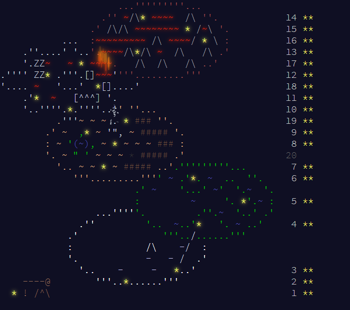
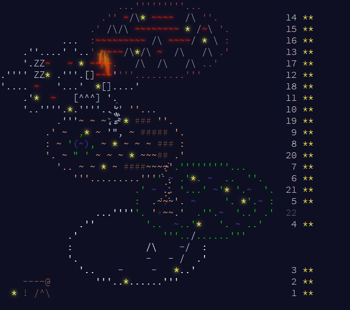
Day 21

diff --git a/2023/main_page/aoc/index_21.html b/2023/main_page/aoc/index_21.html
@@ -1,0 +1,161 @@
+<!DOCTYPE html>
+<html lang="en-us">
+<head>
+<meta charset="utf-8"/>
+<title>Advent of Code 2023</title>
+<!--[if lt IE 9]><script src="html5.js"></script><![endif]-->
+<link href='SourceCodePro.css' rel='stylesheet' type='text/css'>
+<link rel="stylesheet" type="text/css" href="style.css"/>
+<link rel="stylesheet alternate" type="text/css" href="highcontrast.css?0" title="High Contrast"/>
+<link rel="shortcut icon" href="favicon.png"/>
+</head><body>
+<main>
+<style>
+.calendar .calendar-color-m { color:#d4dde4; }
+.calendar .calendar-color-n { color:#9b715b; }
+.calendar .calendar-color-v { color:#df2308; text-shadow:0 0 5px #df2308, 0 0 10px #df2308; }
+.calendar .calendar-color-l { color:#ccccff; }
+.calendar .calendar-color-s { color:#e3b585; }
+.calendar .calendar-color-y { color:#ffff66; text-shadow:0 0 5px #ffff66, 0 0 10px #ffff66; }
+.calendar .sandfall {
+  position: relative;
+}
+.calendar .sandfall > span {
+  position: absolute;
+  animation: anim-calendar-sandfall 3s linear infinite;
+  display: inline-block;
+  color: #e3b585;
+  pointer-events: none;
+}
+@keyframes anim-calendar-sandfall {
+    0% { transform: translateY(0);     opacity:0.0; }
+   10% {                               opacity:0.8; }
+   90% {                               opacity:0.8; }
+  100% { transform: translateY(7.5ch); opacity:0.0; }
+}
+
+.calendar .gearfall {
+  position: relative;
+}
+.calendar .gearfall > span {
+  position: absolute;
+  animation: anim-calendar-gearfall-b 3s linear infinite;
+  display: inline-block;
+  color: #d4dde4;
+  pointer-events: none;
+}
+.calendar .gearfall > span.gearfall-whozit, .calendar .gearfall > span.gearfall-whatzit, .calendar .gearfall > span.gearfall-thingamabob {
+  animation-name: anim-calendar-gearfall-t;
+}
+@keyframes anim-calendar-gearfall-b {
+    0% { transform: translateY(0)   rotate(0)     translateY(-.5ch); opacity:0.0; }
+   20% {                                                             opacity:1.0; }
+   80% {                                                             opacity:1.0; }
+  100% { transform: translateY(4ch) rotate(2turn) translateY(-.5ch); opacity:0.0; }
+}
+@keyframes anim-calendar-gearfall-t {
+    0% { transform: translateY(0)   rotate(0)     translateY(.5ch); opacity:0.0; }
+   10% {                                                            opacity:1.0; }
+   90% {                                                            opacity:1.0; }
+  100% { transform: translateY(4ch) rotate(2turn) translateY(.5ch); opacity:0.0; }
+}
+
+.calendar .calendar-color-a { color:#a5a8af; }
+.calendar .calendar-color-i { color:#a25151; }
+.calendar .calendar-color-b { color:#5555bb; }
+.calendar .calendar-color-g { color:#00cc00; }
+.calendar .calendar-color-w { color:#ffffff; }
+.calendar .calendar-color-k { color:#6b4d3b; }
+.calendar .lavafall {
+  position: relative;
+}
+.calendar .lavafall > span {
+  position: absolute;
+  animation: anim-calendar-lavafall 3s linear infinite;
+  display: inline-block;
+  pointer-events: none;
+}
+@keyframes anim-calendar-lavafall {
+    0% { transform: translateY(0);   opacity:0.0; color:#faa718; text-shadow: 0 0 3px #faa718, 0 0 5px #faa718, 0 0 10px #faa718, 0 0 15px #faa718, 0 0 20px #faa718; }
+   20% {                             opacity:0.8; }
+   80% {                             opacity:0.8; }
+  100% { transform: translateY(3ch); opacity:0.0; color:#df2308; text-shadow: 0 0 3px #df2308, 0 0 5px #df2308, 0 0 10px #df2308, 0 0 15px #df2308, 0 0 20px #df2308; }
+}
+
+</style>
+<pre class="calendar"><a aria-label="Day 14, two stars" href="day_14.html" class="calendar-day14 calendar-verycomplete">                     <span class="calendar-color-i">...'''''''''...</span>                    
+                  <span class="calendar-color-i">.''</span> <span class="calendar-color-v">~</span><span class="calendar-color-a">/\</span><span class="calendar-color-y">*</span> <span class="calendar-color-v">~~~~</span>  <span class="calendar-color-a">/\</span> <span class="calendar-color-i">''.</span>            <span class="calendar-day">14</span> <span class="calendar-mark-complete">*</span><span class="calendar-mark-verycomplete">*</span></a>
+<a aria-label="Day 15, two stars" href="day_15.html" class="calendar-day15 calendar-verycomplete">                <span class="calendar-color-i">.'</span> <span class="calendar-color-a">/\/\</span> <span class="calendar-color-v">~~~~~~~~</span> <span class="calendar-color-y">*</span> <span class="calendar-color-a">/</span><span class="calendar-color-v">~</span><span class="calendar-color-a">\</span> <span class="calendar-color-i">'.</span>          <span class="calendar-day">15</span> <span class="calendar-mark-complete">*</span><span class="calendar-mark-verycomplete">*</span></a>
+<a aria-label="Day 16, two stars" href="day_16.html" class="calendar-day16 calendar-verycomplete">           <span class="calendar-color-m">...</span>  <span class="calendar-color-i">:</span><span class="calendar-color-v">~~~~~~~~~</span> <span class="calendar-color-a">/\</span> <span class="calendar-color-v">~~~~</span><span class="calendar-color-a">/</span> <span class="calendar-color-y">*</span> <span class="calendar-color-a">\</span> <span class="calendar-color-i">:</span>          <span class="calendar-day">16</span> <span class="calendar-mark-complete">*</span><span class="calendar-mark-verycomplete">*</span></a>
+<a aria-label="Day 13, two stars" href="day_13.html" class="calendar-day13 calendar-verycomplete">    <span class="calendar-color-m">.''....'</span> <span class="calendar-color-m">'..</span><span class="calendar-color-i">'.<span class="lavafall" style=""><span style="left:-7.9px;top:-7.9px;animation-delay:-1.65s">|</span><span style="left:-6.8px;top:-6.8px;animation-delay:-1.17s">|</span><span style="left:8.1px;top:8.1px;animation-delay:-2.80s">|</span><span style="left:9.9px;top:9.9px;animation-delay:-0.64s">|</span><span style="left:-6.6px;top:-6.6px;animation-delay:-1.30s">|</span><span style="left:-4.0px;top:-4.0px;animation-delay:-0.53s">|</span><span style="left:3.4px;top:3.4px;animation-delay:-0.93s">|</span><span style="left:4.8px;top:4.8px;animation-delay:-2.29s">|</span><span style="left:1.9px;top:1.9px;animation-delay:-0.48s">|</span><span style="left:9.0px;top:9.0px;animation-delay:-2.03s">|</span><span style="left:10.7px;top:10.7px;animation-delay:-2.22s">|</span><span style="left:-5.1px;top:-5.1px;animation-delay:-2.19s">|</span><span style="left:-2.2px;top:-2.2px;animation-delay:-1.85s">|</span><span style="left:9.2px;top:9.2px;animation-delay:-1.98s">|</span><span style="left:7.6px;top:7.6px;animation-delay:-2.33s">|</span><span style="left:6.6px;top:6.6px;animation-delay:-1.71s">|</span><span style="left:8.7px;top:8.7px;animation-delay:-2.83s">|</span><span style="left:6.6px;top:6.6px;animation-delay:-0.20s">|</span><span style="left:4.8px;top:4.8px;animation-delay:-1.02s">|</span><span style="left:2.6px;top:2.6px;animation-delay:-0.01s">|</span></span></span><span class="calendar-color-v">~~~~</span><span class="calendar-color-a">/\</span><span class="calendar-color-y">*</span><span class="calendar-color-a">/\</span> <span class="calendar-color-v">~</span>  <span class="calendar-color-a">/\</span>   <span class="calendar-color-a">/\</span> <span class="calendar-color-i">.'</span>          <span class="calendar-day">13</span> <span class="calendar-mark-complete">*</span><span class="calendar-mark-verycomplete">*</span></a>
+<a aria-label="Day 17, two stars" href="day_17.html" class="calendar-day17 calendar-verycomplete">    <span class="calendar-color-m">'.ZZ</span><span class="calendar-color-v">~</span>   <span class="calendar-color-v">~</span> <span class="calendar-color-y">*</span> <span class="calendar-color-v">~~~~</span><span class="calendar-color-i">.</span>   <span class="calendar-color-a">/\</span>  <span class="calendar-color-a">/\</span>   <span class="calendar-color-a">/\</span> <span class="calendar-color-i">..'</span>            <span class="calendar-day">17</span> <span class="calendar-mark-complete">*</span><span class="calendar-mark-verycomplete">*</span></a>
+<a aria-label="Day 12, two stars" href="day_12.html" class="calendar-day12 calendar-verycomplete"><span class="calendar-color-m">.''''</span> <span class="calendar-color-m">ZZ</span><span class="calendar-color-y">*</span> <span class="calendar-color-m">.'''.[]</span><span class="calendar-color-v">~~~</span><span class="calendar-color-m">'</span><span class="calendar-color-i">'''.........'''</span>               <span class="calendar-day">12</span> <span class="calendar-mark-complete">*</span><span class="calendar-mark-verycomplete">*</span></a>
+<a aria-label="Day 18, two stars" href="day_18.html" class="calendar-day18 calendar-verycomplete"><span class="calendar-color-m">'....</span> <span class="calendar-color-v">~</span>   <span class="calendar-color-m">'...'</span>  <span class="calendar-color-y">*</span><span class="calendar-color-m">[]....'</span>                          <span class="calendar-day">18</span> <span class="calendar-mark-complete">*</span><span class="calendar-mark-verycomplete">*</span></a>
+<a aria-label="Day 11, two stars" href="day_11.html" class="calendar-day11 calendar-verycomplete">    <span class="calendar-color-m">.'</span><span class="calendar-color-y">*</span>  <span class="calendar-color-v">~</span>   <span class="calendar-color-m">[^^^]</span> <span class="calendar-color-m">'.</span>                              <span class="calendar-day">11</span> <span class="calendar-mark-complete">*</span><span class="calendar-mark-verycomplete">*</span></a>
+<a aria-label="Day 10, two stars" href="day_10.html" class="calendar-day10 calendar-verycomplete">    <span class="calendar-color-m">'..''''.</span><span class="calendar-color-y">*</span><span class="calendar-color-m">.''''.<span class="gearfall" style=""><span class="gearfall-gizmo" style="left:2.2px;top:-2.2px;animation-delay:-2.00s">,</span><span class="gearfall-whatzit" style="left:12.0px;top:-12.0px;animation-delay:-1.16s">&quot;</span><span class="gearfall-thingamabob" style="left:19.5px;top:-19.5px;animation-delay:-2.78s">'</span><span class="gearfall-whatzit" style="left:11.8px;top:-11.8px;animation-delay:-2.37s">&quot;</span><span class="gearfall-whozit" style="left:2.4px;top:-2.4px;animation-delay:-0.45s">`</span><span class="gearfall-thingamabob" style="left:14.4px;top:-14.4px;animation-delay:-0.74s">'</span><span class="gearfall-gadget" style="left:15.5px;top:-15.5px;animation-delay:-0.02s">.</span><span class="gearfall-whatzit" style="left:18.5px;top:-18.5px;animation-delay:-2.47s">&quot;</span><span class="gearfall-whatzit" style="left:18.2px;top:-18.2px;animation-delay:-1.96s">&quot;</span><span class="gearfall-whozit" style="left:0.6px;top:-0.6px;animation-delay:-1.18s">`</span></span>.'</span><span class="calendar-color-s">'</span> <span class="calendar-color-s">''...</span>                       <span class="calendar-day">10</span> <span class="calendar-mark-complete">*</span><span class="calendar-mark-verycomplete">*</span></a>
+<a aria-label="Day 19, two stars" href="day_19.html" class="calendar-day19 calendar-verycomplete">          <span class="calendar-color-s">.</span><span class="calendar-color-m">'''</span><span class="calendar-color-s">~</span> <span class="calendar-color-s">~</span> <span class="calendar-color-s">~</span> <span class="calendar-color-m">.</span> <span class="calendar-color-y">*</span> <span class="calendar-color-k">###</span> <span class="calendar-color-s">''.</span>                    <span class="calendar-day">19</span> <span class="calendar-mark-complete">*</span><span class="calendar-mark-verycomplete">*</span></a>
+<a aria-label="Day 9, two stars" href="day_09.html" class="calendar-day9 calendar-verycomplete">        <span class="calendar-color-s">.'</span> <span class="calendar-color-s">~</span>  <span class="calendar-color-g">,</span><span class="calendar-color-y">*</span> <span class="calendar-color-s">~</span> <span class="calendar-color-m">'&quot;,</span> <span class="calendar-color-s">~</span> <span class="calendar-color-k">#####</span> <span class="calendar-color-s">'.</span>                  <span class="calendar-day"> 9</span> <span class="calendar-mark-complete">*</span><span class="calendar-mark-verycomplete">*</span></a>
+<a aria-label="Day 8, two stars" href="day_08.html" class="calendar-day8 calendar-verycomplete">        <span class="calendar-color-s">:</span> <span class="calendar-color-s">~</span> <span class="calendar-color-g">'</span><span class="calendar-color-b">(~)</span><span class="calendar-color-g">,</span> <span class="calendar-color-s">~</span> <span class="calendar-color-y">*</span> <span class="calendar-color-s">~</span> <span class="calendar-color-s">~</span> <span class="calendar-color-s">~</span> <span class="calendar-color-k">###</span> <span class="calendar-color-s">:</span>                  <span class="calendar-day"> 8</span> <span class="calendar-mark-complete">*</span><span class="calendar-mark-verycomplete">*</span></a>
+<a aria-label="Day 20, two stars" href="day_20.html" class="calendar-day20 calendar-verycomplete">        <span class="calendar-color-s">'.</span> <span class="calendar-color-s">~</span> <span class="calendar-color-g">&quot;</span> <span class="calendar-color-g">'</span> <span class="calendar-color-s">~</span> <span class="calendar-color-s">~</span> <span class="calendar-color-s">~</span> <span class="calendar-color-y">*</span> <span class="calendar-color-s">~~~</span><span class="calendar-color-k">##</span> <span class="calendar-color-s">.'</span>                  <span class="calendar-day">20</span> <span class="calendar-mark-complete">*</span><span class="calendar-mark-verycomplete">*</span></a>
+<a aria-label="Day 7, two stars" href="day_07.html" class="calendar-day7 calendar-verycomplete">          <span class="calendar-color-s">'..</span> <span class="calendar-color-s">~</span> <span class="calendar-color-s">~</span> <span class="calendar-color-y">*</span> <span class="calendar-color-s">~</span> <span class="calendar-color-k">####</span><span class="calendar-color-s">~~<span class="sandfall" style=""><span style="left:17.9px;top:-17.9px;animation-delay:-2.99s">.</span><span style="left:13.0px;top:-13.0px;animation-delay:-0.35s">.</span><span style="left:13.5px;top:-13.5px;animation-delay:-0.05s">.</span><span style="left:20.4px;top:-20.4px;animation-delay:-1.45s">.</span><span style="left:10.8px;top:-10.8px;animation-delay:-0.16s">.</span><span style="left:13.0px;top:-13.0px;animation-delay:-1.32s">.</span><span style="left:5.1px;top:-5.1px;animation-delay:-0.33s">.</span><span style="left:15.1px;top:-15.1px;animation-delay:-2.64s">.</span><span style="left:5.4px;top:-5.4px;animation-delay:-2.80s">.</span><span style="left:20.3px;top:-20.3px;animation-delay:-1.50s">.</span><span style="left:17.8px;top:-17.8px;animation-delay:-2.12s">.</span><span style="left:3.3px;top:-3.3px;animation-delay:-2.02s">.</span><span style="left:18.9px;top:-18.9px;animation-delay:-2.54s">.</span><span style="left:11.5px;top:-11.5px;animation-delay:-2.67s">.</span><span style="left:16.5px;top:-16.5px;animation-delay:-0.22s">.</span><span style="left:19.5px;top:-19.5px;animation-delay:-2.22s">.</span><span style="left:7.2px;top:-7.2px;animation-delay:-0.58s">.</span><span style="left:12.7px;top:-12.7px;animation-delay:-2.16s">.</span><span style="left:19.3px;top:-19.3px;animation-delay:-1.81s">.</span><span style="left:19.3px;top:-19.3px;animation-delay:-1.25s">.</span></span>~~'</span><span class="calendar-color-g">.'''''''''...</span>       <span class="calendar-day"> 7</span> <span class="calendar-mark-complete">*</span><span class="calendar-mark-verycomplete">*</span></a>
+<a aria-label="Day 6, two stars" href="day_06.html" class="calendar-day6 calendar-verycomplete">             <span class="calendar-color-s">'''.........'''</span><span class="calendar-color-g">'</span> <span class="calendar-color-b">~</span> <span class="calendar-color-g">.'</span><span class="calendar-color-y">*</span><span class="calendar-color-g">.</span> <span class="calendar-color-b">~</span>  <span class="calendar-color-g">..</span>  <span class="calendar-color-g">''.</span>    <span class="calendar-day"> 6</span> <span class="calendar-mark-complete">*</span><span class="calendar-mark-verycomplete">*</span></a>
+<a aria-label="Day 21, two stars" href="day_21.html" class="calendar-day21 calendar-verycomplete">                        <span class="calendar-color-g">.'</span> <span class="calendar-color-b">~</span> <span class="calendar-color-s">..</span> <span class="calendar-color-g">'...'</span> <span class="calendar-color-b">~</span><span class="calendar-color-g">'</span><span class="calendar-color-y">*</span> <span class="calendar-color-g">'.</span><span class="calendar-color-b">~</span>  <span class="calendar-color-g">'.</span>  <span class="calendar-day">21</span> <span class="calendar-mark-complete">*</span><span class="calendar-mark-verycomplete">*</span></a>
+<a aria-label="Day 5, two stars" href="day_05.html" class="calendar-day5 calendar-verycomplete">                        <span class="calendar-color-g">:</span>  <span class="calendar-color-s">.~~~'.</span> <span class="calendar-color-b">~</span>     <span class="calendar-color-g">'.</span> <span class="calendar-color-y">*</span><span class="calendar-color-g">'.</span><span class="calendar-color-b">~</span> <span class="calendar-color-g">:</span>  <span class="calendar-day"> 5</span> <span class="calendar-mark-complete">*</span><span class="calendar-mark-verycomplete">*</span></a>
+<span aria-hidden="true" class="calendar-day22">                 <span class="calendar-color-w">...''''</span><span class="calendar-color-g">'.</span> <span class="calendar-color-s">'</span>*<span class="calendar-color-s">~~.'</span>  <span class="calendar-color-g">.''.</span><span class="calendar-color-b">~</span>  <span class="calendar-color-g">'..'</span> <span class="calendar-color-g">.'</span>  <span class="calendar-day">22</span><span id="calendar-countdown"></span><script>
+(function(){
+var countdown = document.getElementById("calendar-countdown");
+if (!countdown) return;
+var server_eta = 80404;
+var key = "2023-22-"+server_eta;
+var now = Math.floor(new Date().getTime()/1000);
+var target = server_eta + now;
+if (sessionStorage) {
+  // if you navigate away and hit the back button, this makes sure the countdown doesn't start from the wrong time
+  var prev_target = sessionStorage.getItem("calendar-target");
+  try { prev_target = JSON.parse(prev_target); } catch(e){}
+  if (prev_target && typeof prev_target === 'object' && prev_target.key === key) {
+    target = prev_target.target;
+  } else {
+    sessionStorage.setItem("calendar-target", JSON.stringify({key:key, target:target+1}));
+  }
+}
+
+var interval = null;
+function update_countdown() {
+  var remaining = Math.ceil(target - new Date().getTime()/1000);
+  if (remaining <= 0) {
+    clearInterval(interval);
+    interval = null;
+    countdown.textContent = "";
+
+    var a = document.createElement("a");
+    a[String.fromCharCode(104,114,101,102)] = "/2023" + String.fromCharCode(47,100,97,121,47) + "22";
+    a.className = "calendar-day22 calendar-day-new";
+    var span = countdown.parentNode;
+    while (span.firstChild) {
+      a.appendChild(span.firstChild);
+    }
+    a.appendChild(document.createTextNode("   "));
+    span.parentNode.insertBefore(a, span);
+    span.parentNode.removeChild(span);
+    countdown.parentNode.removeChild(countdown);
+  } else {
+    var hours = Math.floor(remaining/60/60);
+    remaining -= hours * 60 * 60;
+    var minutes = Math.floor(remaining/60);
+    remaining -= minutes * 60;
+    var seconds = remaining;
+    countdown.textContent = (hours < 10 ? "0" : "") + hours + ":" + (minutes < 10 ? "0" : "") + minutes + ":" + (seconds < 10 ? "0" : "") + seconds;
+  }
+}
+})();
+</script></span>
+<a aria-label="Day 4, two stars" href="day_04.html" class="calendar-day4 calendar-verycomplete">              <span class="calendar-color-w">.''</span>         <span class="calendar-color-g">'..</span>  <span class="calendar-color-b">~</span><span class="calendar-color-g">..'</span><span class="calendar-color-y">*</span>   <span class="calendar-color-g">'.</span> <span class="calendar-color-b">~</span> <span class="calendar-color-g">..'</span>    <span class="calendar-day"> 4</span> <span class="calendar-mark-complete">*</span><span class="calendar-mark-verycomplete">*</span></a>
+<span aria-hidden="true" class="">            <span class="calendar-color-w">.'</span>               <span class="calendar-color-g">'''..</span><span class="calendar-color-m">/</span><span class="calendar-color-g">......'''</span>     </span>
+<span aria-hidden="true" class="">            <span class="calendar-color-w">:</span>             <span class="calendar-color-w">/\</span>    <span class="calendar-color-l">-</span><span class="calendar-color-m">/</span>  <span class="calendar-color-w">:</span>            </span>
+<span aria-hidden="true" class="">            <span class="calendar-color-w">'.</span>            <span class="calendar-color-l">-</span>   <span class="calendar-color-l">-</span> <span class="calendar-color-m">/</span>  <span class="calendar-color-w">.'</span>            </span>
+<a aria-label="Day 3, two stars" href="day_03.html" class="calendar-day3 calendar-verycomplete">              <span class="calendar-color-w">'..</span>    <span class="calendar-color-l">-</span>     <span class="calendar-color-l">-</span>   <span class="calendar-color-y">*</span><span class="calendar-color-w">..'</span>                <span class="calendar-day"> 3</span> <span class="calendar-mark-complete">*</span><span class="calendar-mark-verycomplete">*</span></a>
+<a aria-label="Day 2, two stars" href="day_02.html" class="calendar-day2 calendar-verycomplete">    <span class="calendar-color-n">----@</span>        <span class="calendar-color-w">'''..</span><span class="calendar-color-y">*</span><span class="calendar-color-w">......'''</span>                   <span class="calendar-day"> 2</span> <span class="calendar-mark-complete">*</span><span class="calendar-mark-verycomplete">*</span></a>
+<a aria-label="Day 1, two stars" href="day_01.html" class="calendar-day1 calendar-verycomplete">  <span class="calendar-color-y">*</span> <span class="calendar-color-n">!</span> <span class="calendar-color-n">/^\</span>                                          <span class="calendar-day"> 1</span> <span class="calendar-mark-complete">*</span><span class="calendar-mark-verycomplete">*</span></a>
+</pre>
+</main></body></html>
